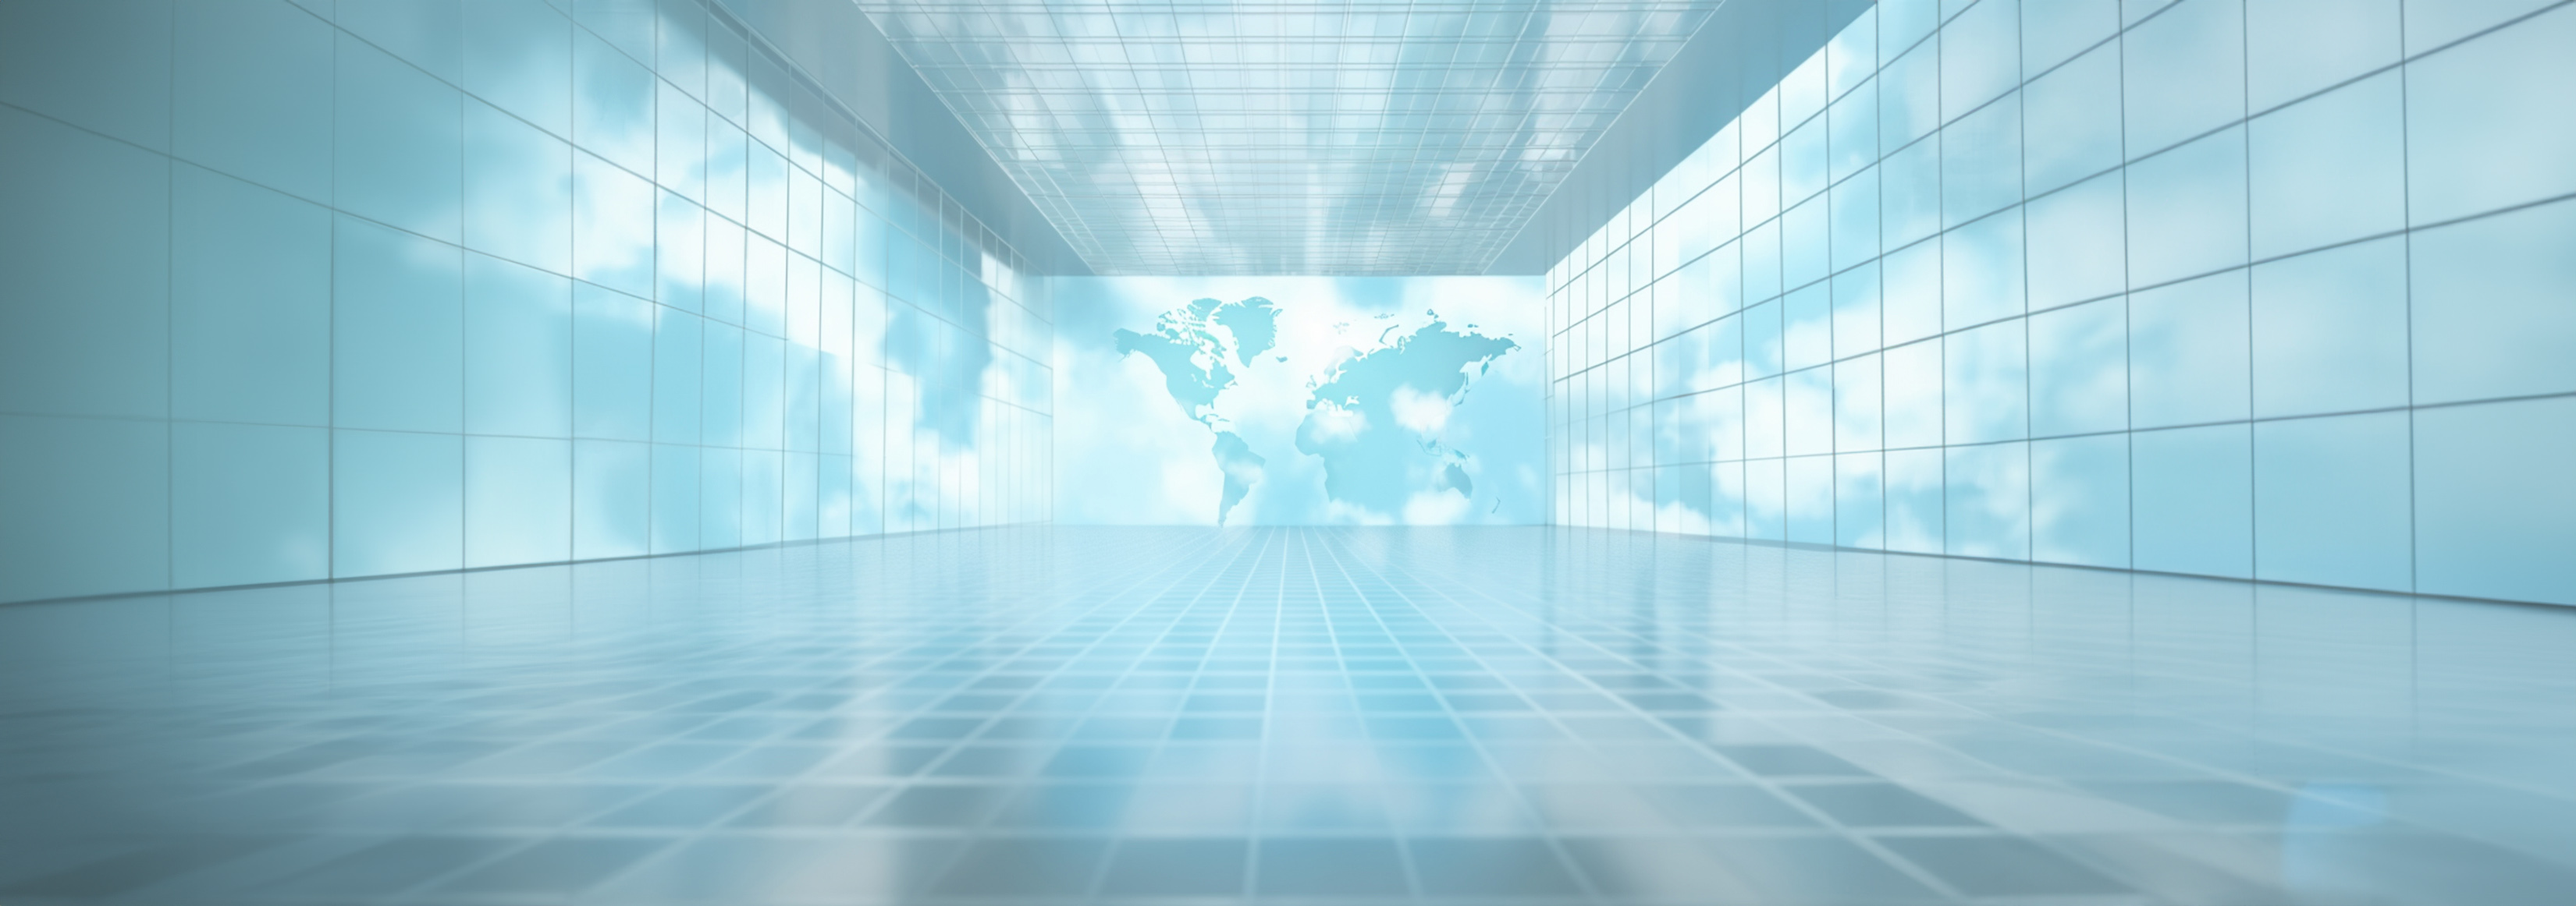
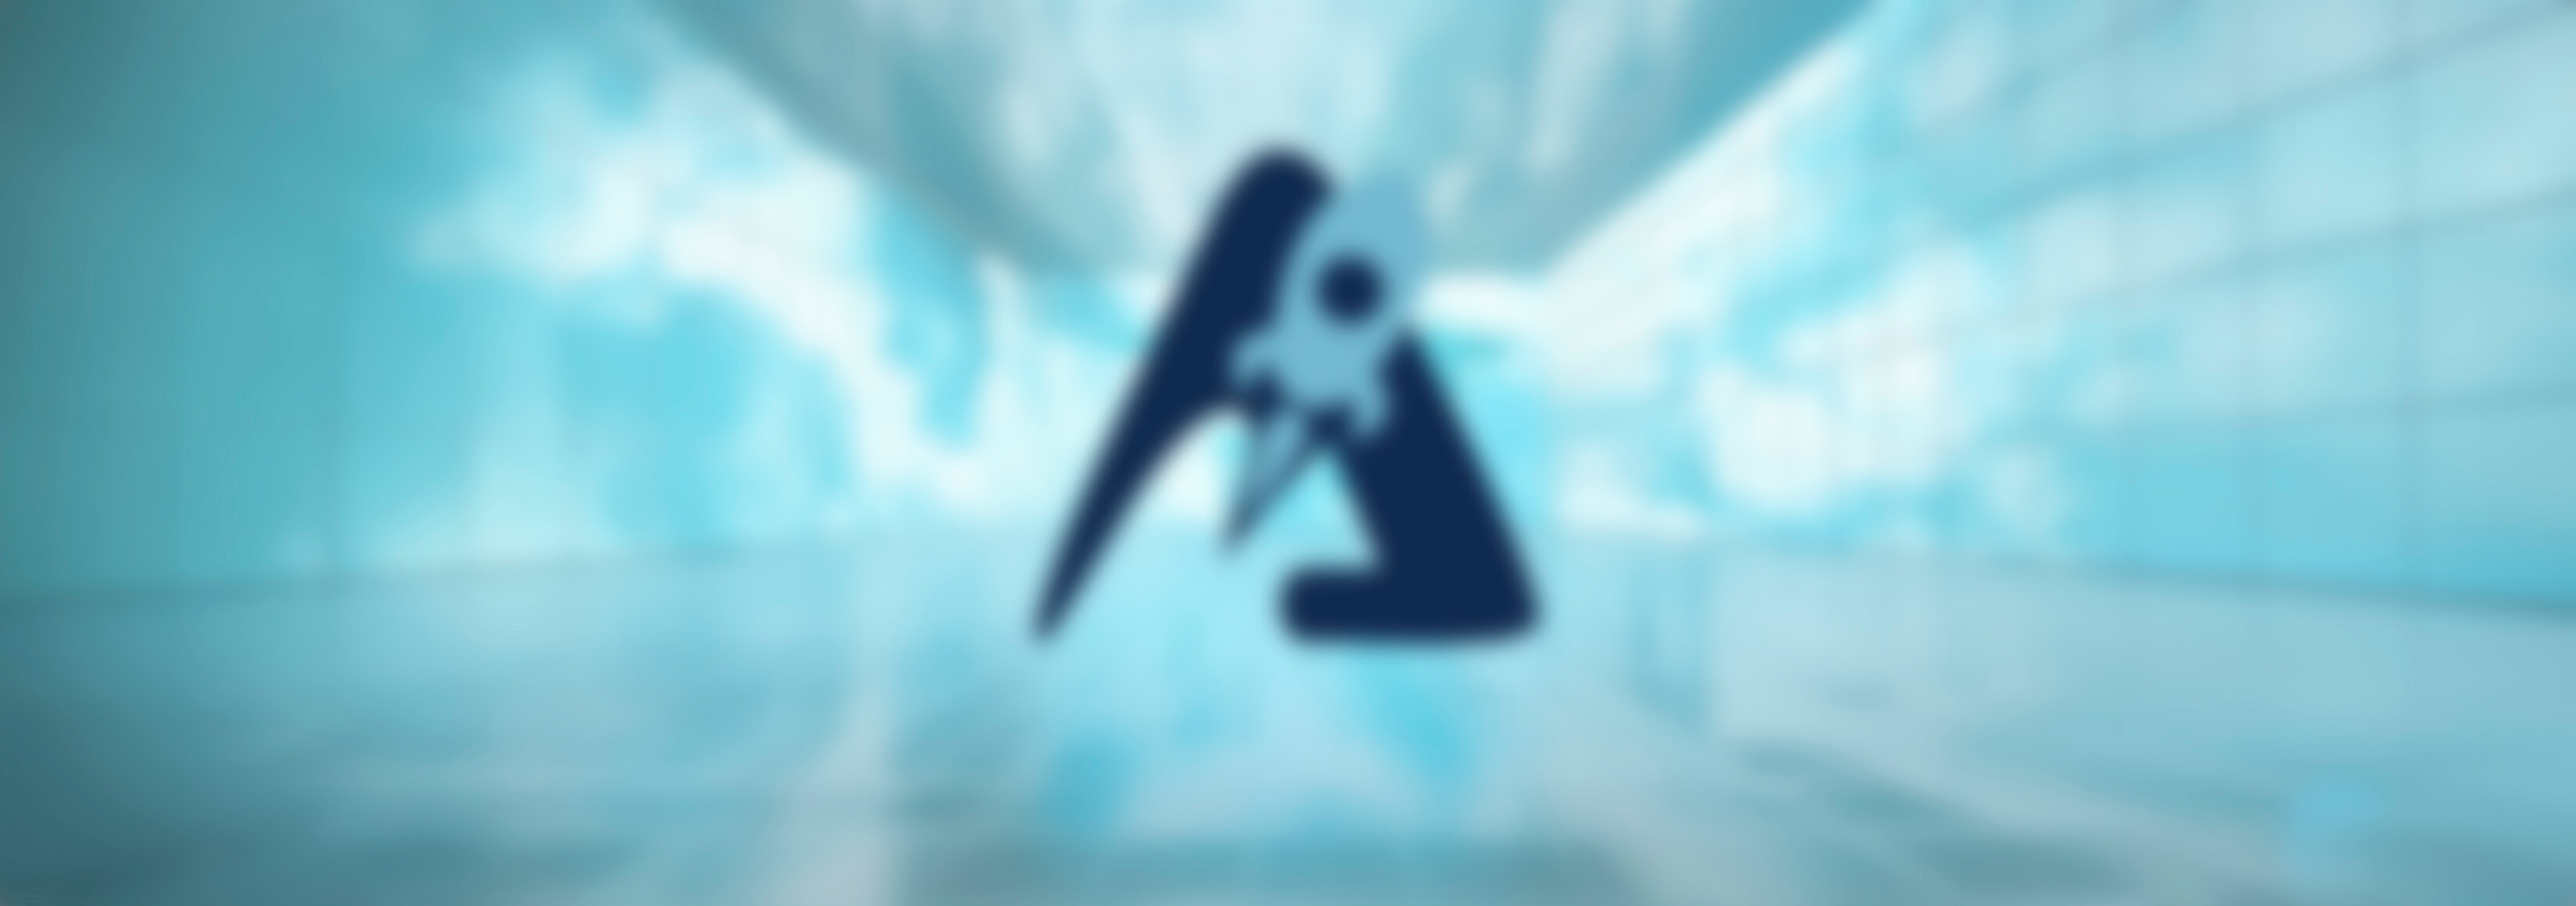
Add images in more info page and user background conditional

diff --git a/components/MoreInfo/Section4.tsx b/components/MoreInfo/Section4.tsx
@@ -108,7 +108,7 @@ export const Section4: FC<Props> = ({ type }) => {
                         return (
                             <div key={ inf.title } className={ style['specs-container'] }>
                                 <h3 className={ style['specs-title'] }>{ inf.title }</h3>
-                                <Image src='/static/investor-1.png' alt='' width={ 448 } height={ 672 } className={ style['specs-icon'] } />
+                                <Image src={ `/images/inv-${ idx + 1 }.png` } alt='' width={ 448 } height={ 672 } className={ style['specs-icon'] } />
                                 <p className={ style['specs-description'] }>{ inf.description }</p>
                             </div>
                         )
@@ -117,11 +117,11 @@ export const Section4: FC<Props> = ({ type }) => {
             }
             {
                 (type === 'entrepreneur') && (
-                    data[1].info.map(inf => {
+                    data[1].info.map((inf, idx) => {
                         return (
                             <div key={ inf.title } className={ style['specs-container'] }>
                                 <h3 className={ style['specs-title'] }>{ inf.title }</h3>
-                                <Image src='/static/investor-1.png' alt='' width={ 448 } height={ 672 } className={ style['specs-icon'] } />
+                                <Image src={ `/images/entre-${ idx + 1 }.png` } alt='' width={ 448 } height={ 672 } className={ style['specs-icon'] } />
                                 <p className={ style['specs-description'] }>{ inf.description }</p>
                             </div>
                         )
@@ -130,11 +130,11 @@ export const Section4: FC<Props> = ({ type }) => {
             }
             {
                 (type === 'expert') && (
-                    data[2].info.map(inf => {
+                    data[2].info.map((inf, idx) => {
                         return (
                             <div key={ inf.title } className={ style['specs-container'] }>
                                 <h3 className={ style['specs-title'] }>{ inf.title }</h3>
-                                <Image src='/static/investor-1.png' alt='' width={ 448 } height={ 672 } className={ style['specs-icon'] } />
+                                <Image src={ `/images/exp-${ idx + 1 }.png` } alt='' width={ 448 } height={ 672 } className={ style['specs-icon'] } />
                                 <p className={ style['specs-description'] }>{ inf.description }</p>
                             </div>
                         )

diff --git a/pages/profile/[id].tsx b/pages/profile/[id].tsx
@@ -107,15 +107,13 @@ const ProfilePage: NextPage<Props> = ({ id, email, fullname }) => {
                             <div className={ `window-glass-content` } style={{ padding: 0, overflow: 'hidden' }}>
                                 <div className={ styles['cover-image-container'] }>
                                     {
-                                        backPic && (
-                                            <Image
-                                                src={ backPic }
-                                                alt=''
-                                                width={ 1280 }
-                                                height={ 400 }
-                                                className={ styles['cover-image'] }
-                                            />
-                                        )
+                                        <Image
+                                            src={ backPic ? backPic : '/images/user-background.jpg' }
+                                            alt=''
+                                            width={ 1280 }
+                                            height={ 400 }
+                                            className={ styles['cover-image'] }
+                                        />
                                     }
                                     <div className={ `window-glass ${ styles['profile-image-container'] }` }>
                                         <div className={ `window-glass-content ${ styles['profile-image'] }` }>

diff --git a/components/MoreInfo/Section2.tsx b/components/MoreInfo/Section2.tsx
@@ -3,9 +3,9 @@ import Image from 'next/image'
 
 import style from '../../pages/more-info/more-info.module.css'
 
-import investorImage from '@/public/images/info-investor-image.png'
-import entrepreneurImage from '@/public/images/entrepreneur-image.png'
-import expertImage from '@/public/images/expert-image.png'
+import investorImage from '@/public/images/inv-main.png'
+import entrepreneurImage from '@/public/images/entre-main.png'
+import expertImage from '@/public/images/exp-main.png'
 
 interface Props {
     type: string | undefined
@@ -38,7 +38,6 @@ export const Section2: FC<Props> = ({ type, paragraph1, paragraph2, paragraph3, 
                     )
                 }
             </div>
-            {/* <Image src={ infoInvestorImage } alt='' className={ style['info-image'] } /> */}
             <Image
                 src={ type === 'investor' ? investorImage : type === 'entrepreneur' ? entrepreneurImage : expertImage }
                 alt={ type === 'investor' ? 'Investor Image' : type === 'entrepreneur' ? 'Entrepreneur image' : 'Expert image'}

diff --git a/pages/profile/my-profile.module.css b/pages/profile/my-profile.module.css
@@ -5,7 +5,7 @@
 
 .cover-image-container {
     align-items: center;
-    background-color: green;
+    background-color: transparent;
     block-size: 118px;
     display: flex;
     inline-size: 100%;
